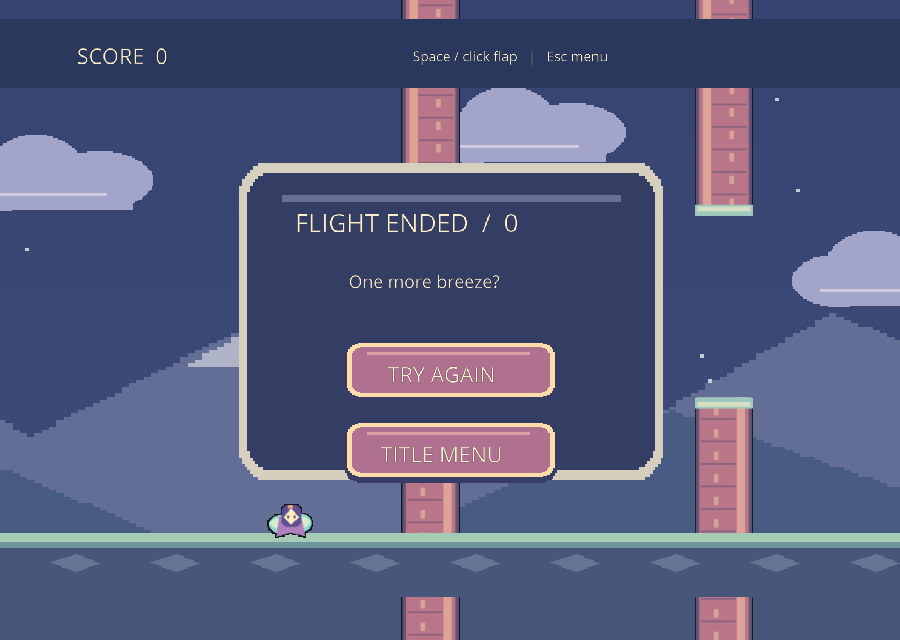
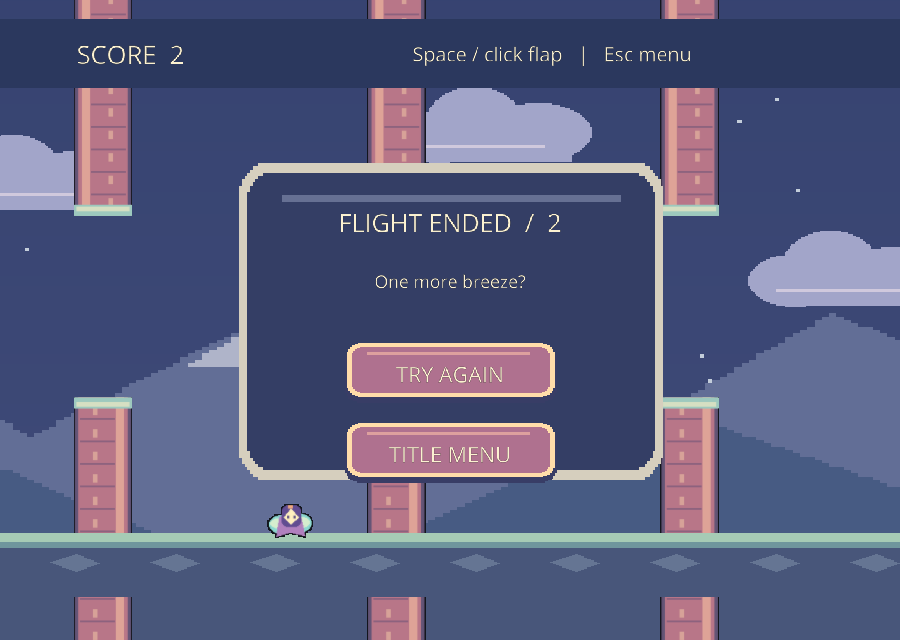
Document verified game downloads, actual captures and final acceptance [skip ci]

diff --git a/README.md b/README.md
@@ -4,12 +4,12 @@ A Linux/Windows extension of [TheCherno/Hazel at the pinned import](https://gith
 
 ## Binaries
 
-Verified Release downloads for checkpoint **`5d972f3`**:
+Verified Release downloads for implementation checkpoint **`7e8d844`**:
 
-- [Windows x64 — Hazelnut and Nutella](https://github.com/cringlekaden/Hazel/actions/runs/37100603151/artifacts/11266510658)
-- [Linux x86_64 — Hazelnut and Nutella](https://github.com/cringlekaden/Hazel/actions/runs/37100603151/artifacts/11266136681)
+- [Windows x64 — Hazelnut and Nutella](https://github.com/cringlekaden/Hazel/actions/runs/37118805605/artifacts/11273050613)
+- [Linux x86_64 — Hazelnut and Nutella](https://github.com/cringlekaden/Hazel/actions/runs/37118805605/artifacts/11271819482)
 
-Both artifacts contain separate application archives and SHA-256 checksums. [Verification run](https://github.com/cringlekaden/Hazel/actions/runs/37100603151) passed Windows/Ubuntu Debug and Release regressions and actual extracted-package tests with source resources and SDK unavailable. Testing evidence is a separate artifact. Review downloads require a GitHub login; no release has been published. [Later feature branch builds](https://github.com/cringlekaden/Hazel/actions/workflows/c-cpp.yml?query=branch%3Afeature%2Fnutella-runtime) are available through successful CI runs.
+Both artifacts contain separate application archives and SHA-256 checksums. [Verification run](https://github.com/cringlekaden/Hazel/actions/runs/37118805605) passed Windows/Ubuntu Debug and Release regressions and actual extracted-package tests with source resources and SDK unavailable. Testing evidence is a separate artifact. Review downloads require a GitHub login; no release has been published. [Later feature branch builds](https://github.com/cringlekaden/Hazel/actions/workflows/c-cpp.yml?query=branch%3Afeature%2Fexample-games) are available through successful CI runs.
 
 Extract an application archive, then launch `Nutella.exe` / `Nutella` or `Hazelnut.exe` / `Hazelnut`. Nutella discovers the included root project and starts MainMenu. Hazelnut opens its bundled Example. Click **Play** inside the game (first start editor Play with the toolbar triangle); Level1 uses A/D and Space, with a clickable Menu control and Escape fallback. Working directory, spaces and Unicode in the extraction path are supported.
 
@@ -20,7 +20,7 @@ Packages need no checkout, build tools, shader SDK or script compiler. Requireme
 ```sh
 git clone --recurse-submodules https://github.com/cringlekaden/Hazel.git
 cd Hazel
-git switch feature/nutella-runtime
+git switch feature/example-games
 scripts/setup.sh                         # Linux
 ```
 
@@ -82,7 +82,9 @@ Managed `Hazel.Scene.LoadScene("Scenes/Level1.hazel")` **requests** a scene tran
 **[Skybound](examples/Skybound/README.md)** follows an original wind sprite through lantern towers. Space/left click flap; fresh Space/R or Try Again restarts after death; Escape/Title Menu returns. A ready state prevents the title click from starting flight accidentally. Four obstacle pairs are reused; scoring and movement use fixed simulation steps.
 
 ![MeadowRun during play](docs/images/meadowrun-play.png)
-![Skybound game over](docs/images/skybound-over.png)
+![Skybound during play](docs/images/skybound-play.png)
+
+Captured title and end states: [MeadowRun title](docs/images/meadowrun-title.png), [completion](docs/images/meadowrun-complete.png), [Skybound title](docs/images/skybound-title.png), [game over](docs/images/skybound-over.png).
 
 These are real engine captures, not mockups. Each project owns its scenes, textures and assembly. Stable layouts are authored in `.hazel` files; inspector-visible script fields tune movement and rules. Both use the shared RuntimeSession and managed scene-loading API. Their cameras fit a fixed 16 x 12 area, keeping gameplay visible across aspect ratios. Original art and redistribution terms are recorded per project; regeneration is optional and needs Pillow only on the author's machine.
 
@@ -99,7 +101,17 @@ python3 scripts/hazel.py test-games                  # requires build --tests
 python3 scripts/hazel.py test-games --config Release --packages
 ```
 
-Extract a game archive and run its Nutella executable without arguments. Complete named Windows/Linux game artifacts are published separately by [example-games CI](https://github.com/cringlekaden/Hazel/actions/workflows/c-cpp.yml?query=branch%3Afeature%2Fexample-games), after extracted acceptance. The normal Hazelnut/Nutella artifacts remain available. `SceneTransitions` remains the focused lifecycle/CLI example used by existing regressions. See [design and measured verification](docs/example-games.md).
+Verified game downloads from the same CI run (GitHub login required):
+
+| Game | Windows x64 | Linux x86_64 |
+| --- | --- | --- |
+| MeadowRun | [Download](https://github.com/cringlekaden/Hazel/actions/runs/37118805605/artifacts/11272612590) | [Download](https://github.com/cringlekaden/Hazel/actions/runs/37118805605/artifacts/11271819917) |
+| Skybound | [Download](https://github.com/cringlekaden/Hazel/actions/runs/37118805605/artifacts/11273116420) | [Download](https://github.com/cringlekaden/Hazel/actions/runs/37118805605/artifacts/11272468937) |
+
+Each artifact contains a complete game archive and checksum. Extract the artifact,
+then its game archive, and run Nutella without arguments. Windows/Linux Debug and
+Release editor/player gameplay checks and extracted software/OpenGL 4.1 checks
+passed. No release has been published. The normal Hazelnut/Nutella artifacts remain available. `SceneTransitions` remains the focused lifecycle/CLI example used by existing regressions. See [design and measured verification](docs/example-games.md).
 
 ## Development and layout
 

diff --git a/docs/example-games.md b/docs/example-games.md
@@ -60,4 +60,25 @@ framebuffer. The actor-control test follows the rendered coat in a bounded searc
 area, allowing texture sampling differences at smaller editor viewport sizes.
 Software drivers are copied only into private test directories. Complete named
 archives use the canonical --name option; README/license files travel with projects.
-Release, extracted packages and full game CI are the remaining verification gate.
+Final source Release desktop acceptance and both named native Linux extracted
+packages pass at `7e8d844`. Checkout resources and the Mono SDK are hidden during
+package execution; archive/file checksums and clean commit metadata are audited.
+Saved imgui.ini and local VS Code settings match their preserved backups. Vendor
+submodules remain pristine. [Final CI 37118805605](https://github.com/cringlekaden/Hazel/actions/runs/37118805605)
+passes on both platforms: Debug/Release regressions and game authoring/play,
+normal application archives, and extracted games with software and OpenGL 4.1
+profiles. Named archives are published separately from testing evidence. Downloaded
+Windows/Linux game and application archives pass SHA-256,
+all-file manifests, clean commit metadata and absence-of-test-driver audits.
+Downloaded Ubuntu CI game archives additionally pass native Intel HD4000 gameplay
+and source/SDK-free relocation on Grandpa. Windows packaged captures are also
+visually inspected. Windows graphics checks use
+isolated software graphics, not physical GPU hardware. Physical human playtesting
+and additional Windows hardware/high-DPI combinations remain manual checks.
+
+The last authoring pass enlarges essential HUD labels for the editor viewport and
+reads Skybound initial obstacle positions/gaps and button positions from authored
+entities. Windows desktop evidence identified a test synchronization race: a
+transition log precedes a displayed frame. Tests now observe the actual rendered
+controls before subsequent clicks and retain failure captures. Production scene
+transition/lifecycle behavior is unchanged.
